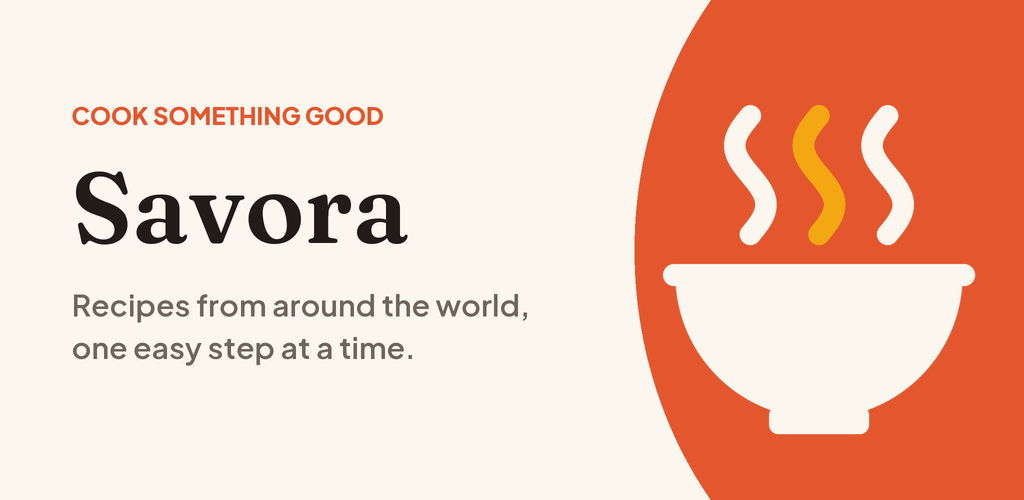
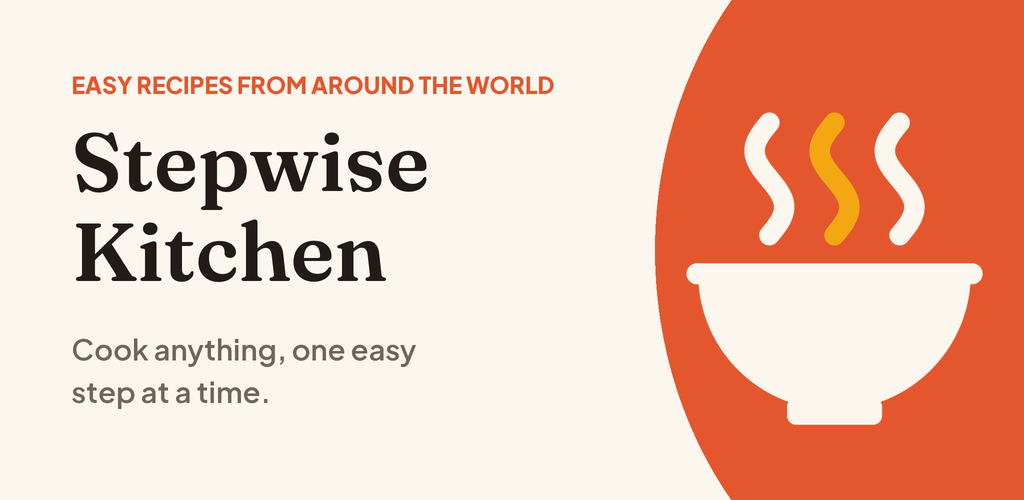
Rename app to Stepwise Kitchen
"Savora" is already used by several apps on Google Play. Rename the app,
package (com.basitmurad.stepwisekitchen), store listing, privacy policy,
README and feature graphic before the first upload.

diff --git a/docs/privacy-policy.html b/docs/privacy-policy.html
@@ -3,8 +3,8 @@
 <head>
   <meta charset="utf-8">
   <meta name="viewport" content="width=device-width, initial-scale=1">
-  <title>Savora Privacy Policy</title>
-  <meta name="description" content="Privacy policy for the Savora recipe app for Android.">
+  <title>Stepwise Kitchen Privacy Policy</title>
+  <meta name="description" content="Privacy policy for the Stepwise Kitchen recipe app for Android.">
   <style>
     :root {
       --bg: #FBF6EE; --text: #211C17; --soft: #6E655C; --accent: #E4572E; --card: #FFFFFF;
@@ -31,32 +31,32 @@
 </head>
 <body>
 <main>
-  <h1>Savora Privacy Policy</h1>
-  <p class="meta">Effective 24 September 2026 · Applies to the Savora app for Android (com.basitmurad.foodrecipe)</p>
+  <h1>Stepwise Kitchen Privacy Policy</h1>
+  <p class="meta">Effective 24 September 2026 · Applies to the Stepwise Kitchen app for Android (com.basitmurad.stepwisekitchen)</p>
 
-  <p class="summary"><strong>In short:</strong> Savora does not collect, store, or share any personal information. The app has no accounts, no ads, no analytics, and does not connect to the internet.</p>
+  <p class="summary"><strong>In short:</strong> Stepwise Kitchen does not collect, store, or share any personal information. The app has no accounts, no ads, no analytics, and does not connect to the internet.</p>
 
   <h2>Information we collect</h2>
-  <p>None. Savora does not collect any personal or device information, and it doesn't ask for your name, email address, location, contacts, photos, or any other data.</p>
+  <p>None. Stepwise Kitchen does not collect any personal or device information, and it doesn't ask for your name, email address, location, contacts, photos, or any other data.</p>
 
   <h2>Information stored on your device</h2>
-  <p>When you save a recipe, Savora stores the recipe's ID in the app's private storage on your phone so your list is there next time. This information:</p>
+  <p>When you save a recipe, Stepwise Kitchen stores the recipe's ID in the app's private storage on your phone so your list is there next time. This information:</p>
   <ul>
     <li>never leaves your device and is never sent to us or anyone else;</li>
     <li>is deleted when you clear the app's data or uninstall the app.</li>
   </ul>
 
   <h2>Internet access and third parties</h2>
-  <p>Savora does not request internet access. All recipes, images, and fonts are built into the app. The app contains no third-party advertising, analytics, or tracking services, so no data is shared with third parties.</p>
+  <p>Stepwise Kitchen does not request internet access. All recipes, images, and fonts are built into the app. The app contains no third-party advertising, analytics, or tracking services, so no data is shared with third parties.</p>
 
   <h2>Permissions</h2>
-  <p>Savora does not request any Android permissions that give it access to personal data.</p>
+  <p>Stepwise Kitchen does not request any Android permissions that give it access to personal data.</p>
 
   <h2>Children's privacy</h2>
-  <p>Savora does not knowingly collect any information from anyone, including children under 13.</p>
+  <p>Stepwise Kitchen does not knowingly collect any information from anyone, including children under 13.</p>
 
   <h2>Changes to this policy</h2>
-  <p>If a future version of Savora changes how data is handled, this page will be updated and the effective date above will change before that version is released.</p>
+  <p>If a future version of Stepwise Kitchen changes how data is handled, this page will be updated and the effective date above will change before that version is released.</p>
 
   <h2>Contact</h2>
   <p>Questions about this policy? Email <a href="mailto:basitmurad7@gmail.com">basitmurad7@gmail.com</a>.</p>

diff --git a/lib/theme/app_theme.dart b/lib/theme/app_theme.dart
@@ -17,7 +17,7 @@ class AppColors {
 }
 
 class AppTheme {
-  static const appName = 'Savora';
+  static const appName = 'Stepwise Kitchen';
 
   static ThemeData light() => _build(
         brightness: Brightness.light,

diff --git a/android/app/src/main/kotlin/com/basitmurad/stepwisekitchen/MainActivity.kt b/android/app/src/main/kotlin/com/basitmurad/stepwisekitchen/MainActivity.kt
@@ -1,4 +1,4 @@
-package com.basitmurad.foodrecipe
+package com.basitmurad.stepwisekitchen
 
 import io.flutter.embedding.android.FlutterActivity
 

diff --git a/docs/store-listing.md b/docs/store-listing.md
@@ -1,11 +1,11 @@
-# Google Play store listing — Savora
+# Google Play store listing — Stepwise Kitchen
 
 Copy each field into **Play Console → Grow → Store presence → Main store listing**.
 
 ## App name (max 30)
 
 ```
-Savora: Recipes & Cook Mode
+Stepwise Kitchen: Easy Recipes
 ```
 
 ## Short description (max 80)
@@ -17,7 +17,7 @@ Savora: Recipes & Cook Mode
 ## Full description (max 4000)
 
 ```
-Savora is a calm, beautiful cookbook that fits in your pocket — no sign-up, no ads, and no internet needed.
+Stepwise Kitchen is a calm, beautiful cookbook that fits in your pocket — no sign-up, no ads, and no internet needed.
 
 Every recipe is carefully written with clear ingredients, simple numbered steps, and honest cooking times, so you can stop scrolling and start cooking.
 
@@ -34,7 +34,7 @@ Tick ingredients off as you gather them, so nothing gets forgotten.
 Busy evening? Jump straight to dishes that are on the table in half an hour.
 
 🔍 SMART SEARCH
-Search by dish, cuisine, or ingredient. Have chickpeas? Savora finds Chana Masala and Crispy Falafel instantly.
+Search by dish, cuisine, or ingredient. Have chickpeas? Stepwise Kitchen finds Chana Masala and Crispy Falafel instantly.
 
 ❤ YOUR PERSONAL COOKBOOK
 Save your favourites with one tap. They're stored only on your phone.
@@ -48,7 +48,7 @@ Highlights include Butter Chicken, Shakshuka, Spaghetti Carbonara, Chicken Teriy
 A warm, easy-on-the-eyes design that follows your phone's theme.
 
 🔒 PRIVATE BY DESIGN
-No account. No ads. No tracking. Savora doesn't collect any data and works completely offline, so it's perfect in the kitchen, on holiday, or anywhere with a weak signal.
+No account. No ads. No tracking. Stepwise Kitchen doesn't collect any data and works completely offline, so it's perfect in the kitchen, on holiday, or anywhere with a weak signal.
 
 Happy cooking! 🍽
 ```

diff --git a/PUBLISHING.md b/PUBLISHING.md
@@ -1,11 +1,11 @@
-# Publishing Savora to Google Play
+# Publishing Stepwise Kitchen to Google Play
 
-App ID: `com.basitmurad.foodrecipe` — this can never change once uploaded to Play.
+App ID: `com.basitmurad.stepwisekitchen` — this can never change once uploaded to Play.
 
 ## 1. Create an upload key (once)
 
 ```sh
-keytool -genkey -v -keystore ~/savora-upload.jks -keyalg RSA -keysize 2048 \
+keytool -genkey -v -keystore ~/stepwise-upload.jks -keyalg RSA -keysize 2048 \
   -validity 10000 -alias upload
 ```
 
@@ -19,7 +19,7 @@ Create `android/key.properties` (already git-ignored):
 storePassword=<store password>
 keyPassword=<key password>
 keyAlias=upload
-storeFile=/Users/<you>/savora-upload.jks
+storeFile=/Users/<you>/stepwise-upload.jks
 ```
 
 Without this file, release builds fall back to the debug key, which Play rejects.

diff --git a/README.md b/README.md
@@ -1,8 +1,8 @@
-# Savora
+# Stepwise Kitchen
 
 A calm, offline recipe app built with Flutter: 32 hand-written recipes from around the world, a daily pick, ingredient checklists and a step-by-step Cook Mode. No account, no ads, no network access.
 
-![Savora feature graphic](docs/play/feature-graphic.png)
+![Stepwise Kitchen feature graphic](docs/play/feature-graphic.png)
 
 ## Features
 
